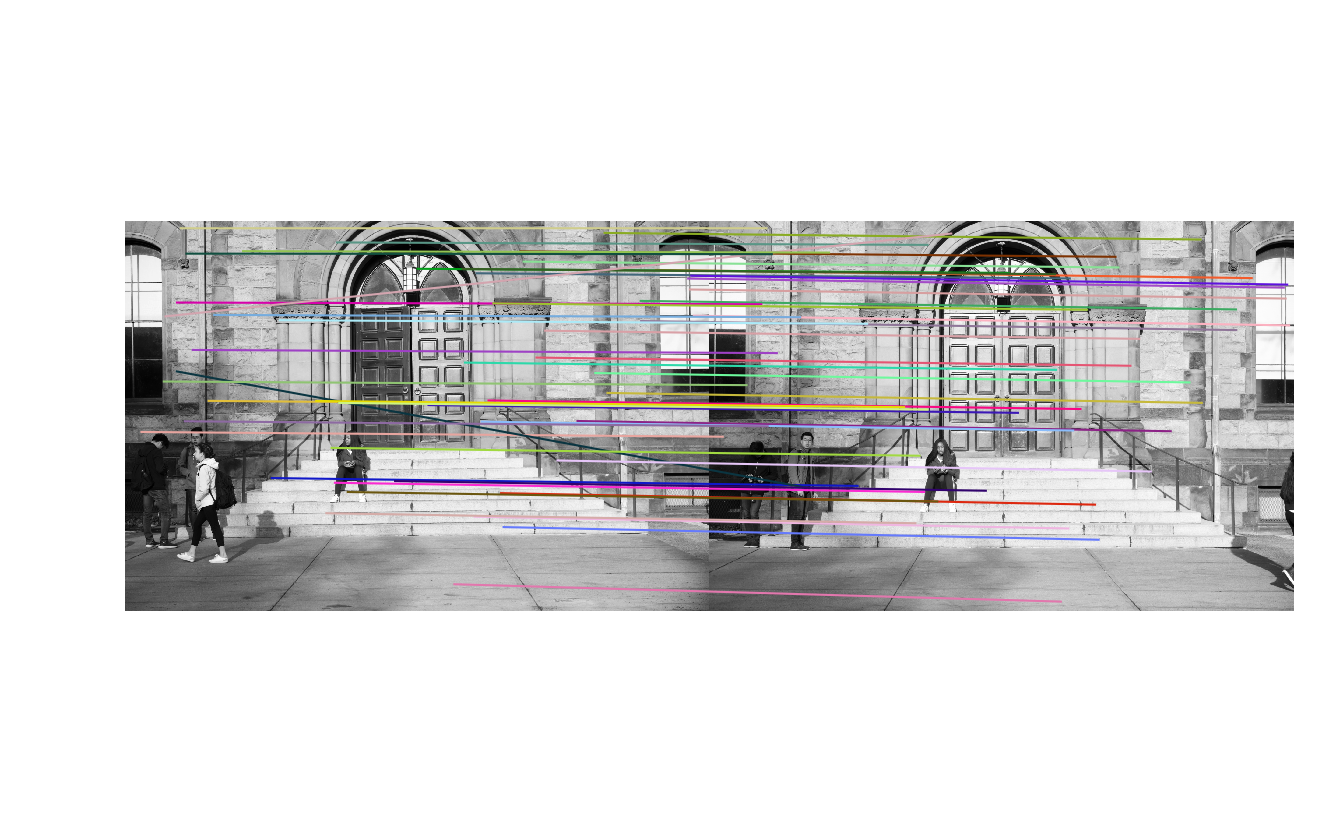
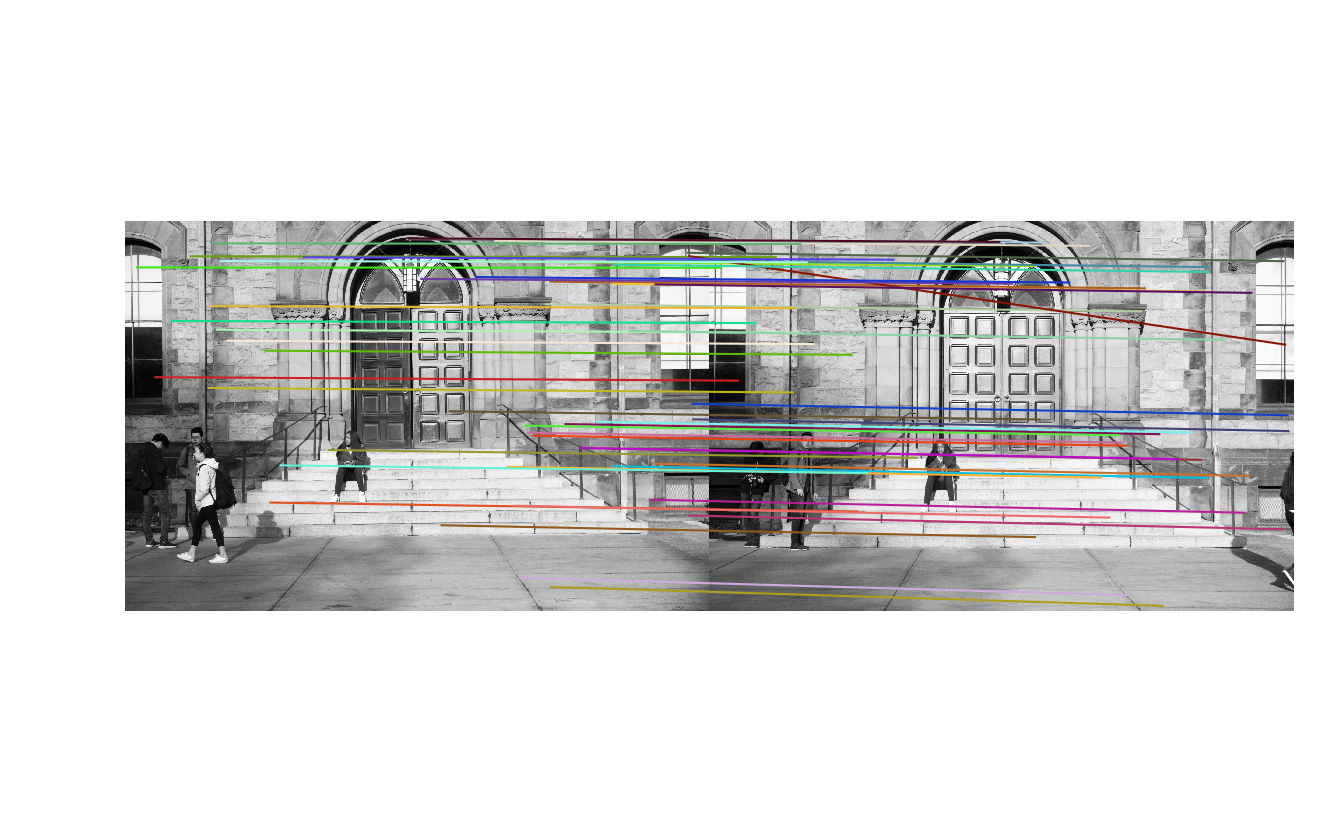
modified M and F in match_sift_feat to behave like a cell array. updated result image

Changed region(s): [[0.123, 0.25, 0.9535, 0.6562], [0.3691, 0.6875, 0.8612, 0.75]]

diff --git a/hustl/exp_comp.py b/hustl/exp_comp.py
@@ -100,8 +100,8 @@ def match_sift_feat(files, names):
     is_vis_match = True #to see the matches or not
 
     # M for matches, F for features
-    M = []
-    F = []
+    M = [[[0] for i in range(num_frames)] for j in range(num_frames)]
+    F = [[[0] for i in range(num_frames)] for j in range(num_frames)]
 
     num_matches = 0;
     for i in range(0, num_frames):
@@ -154,8 +154,8 @@ def match_sift_feat(files, names):
                 num_matches = num_matches + s.shape[0]
                 fi, fj = si_f[mi, :], sj_f[mj, :]
                 di, dj = si_d[mi, :], sj_d[mj, :]
-                M.append([mi, mj, s])
-                F.append([fi, fj])
+                M[i][j] = [mi, mj, s]
+                F[i][j] = [fi, fj]
 
             else:
                 print("dealing with non-unique matches")
@@ -183,8 +183,8 @@ def match_sift_feat(files, names):
                 num_matches = num_matches + s.shape[0]
                 fi, fj = si_f[mi, :], sj_f[mj, :]
                 di, dj = si_d[mi, :], sj_d[mj, :]
-                M.append([mi, mj, s])
-                F.append([fi, fj])
+                M[i][j] = [mi, mj, s]
+                F[i][j] = [fi, fj]
 
             ############ visualize matches #############
             if is_vis_match:
@@ -197,6 +197,7 @@ def match_sift_feat(files, names):
                 matches = matches[np.random.permutation(matches.shape[0])][:50]
                 visualize.show_correspondences(img1, img2, si_f[:, 1], si_f[:, 0], sj_f[:, 1], sj_f[:, 0], matches, mode='arrows')
 
+    M, F = np.array(M), np.array(F)
     to_save = np.array([M, F, num_matches])
     np.save('../npy/sift_match', to_save)
 
